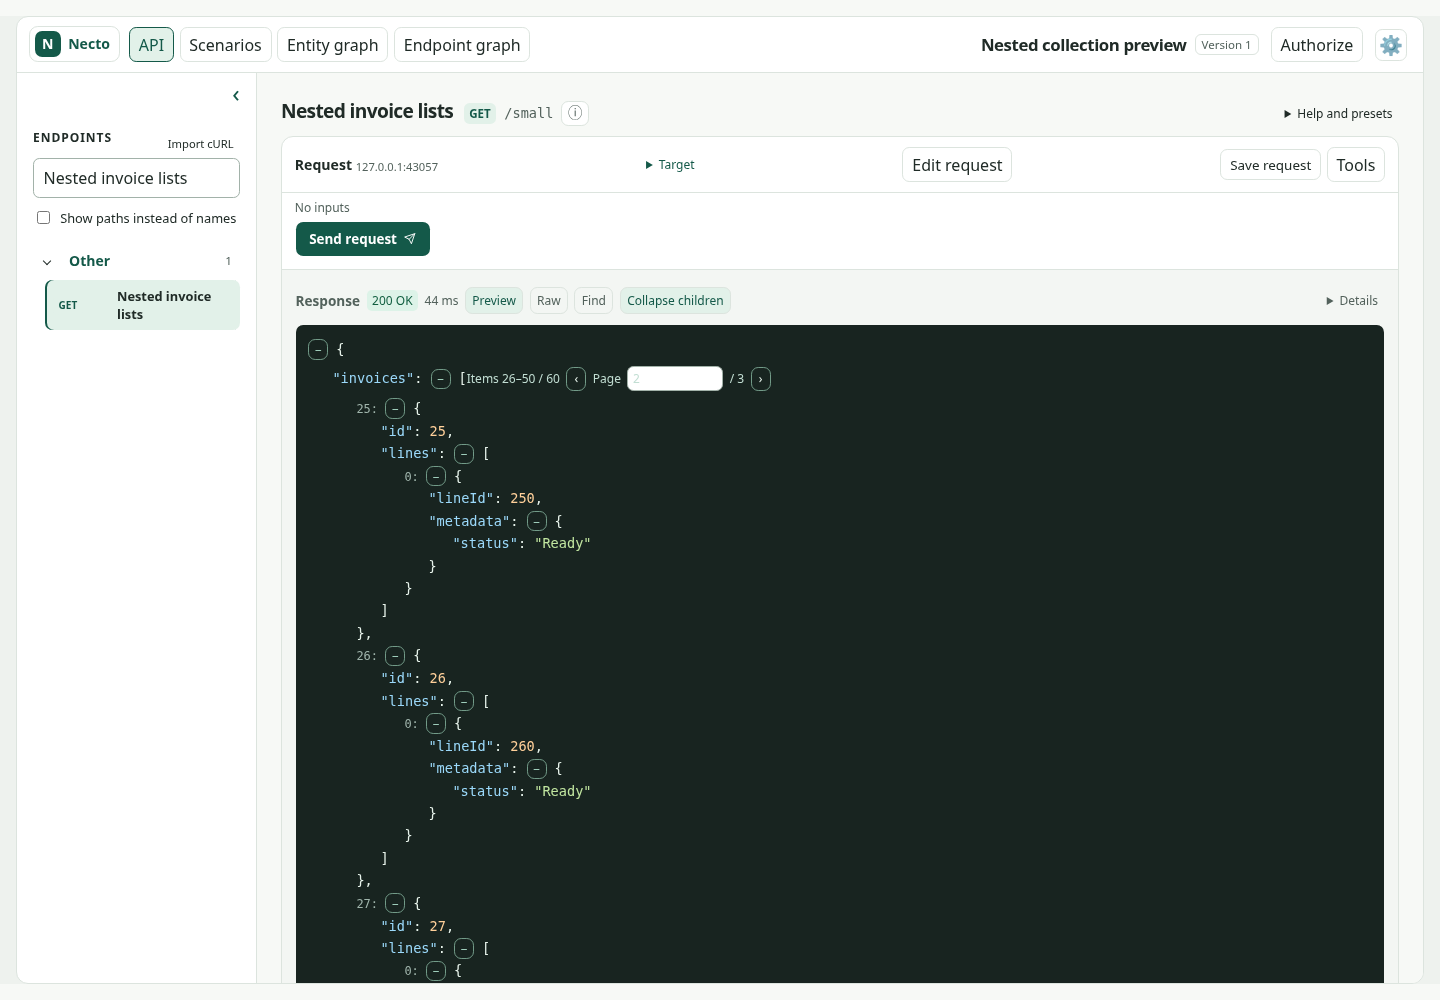
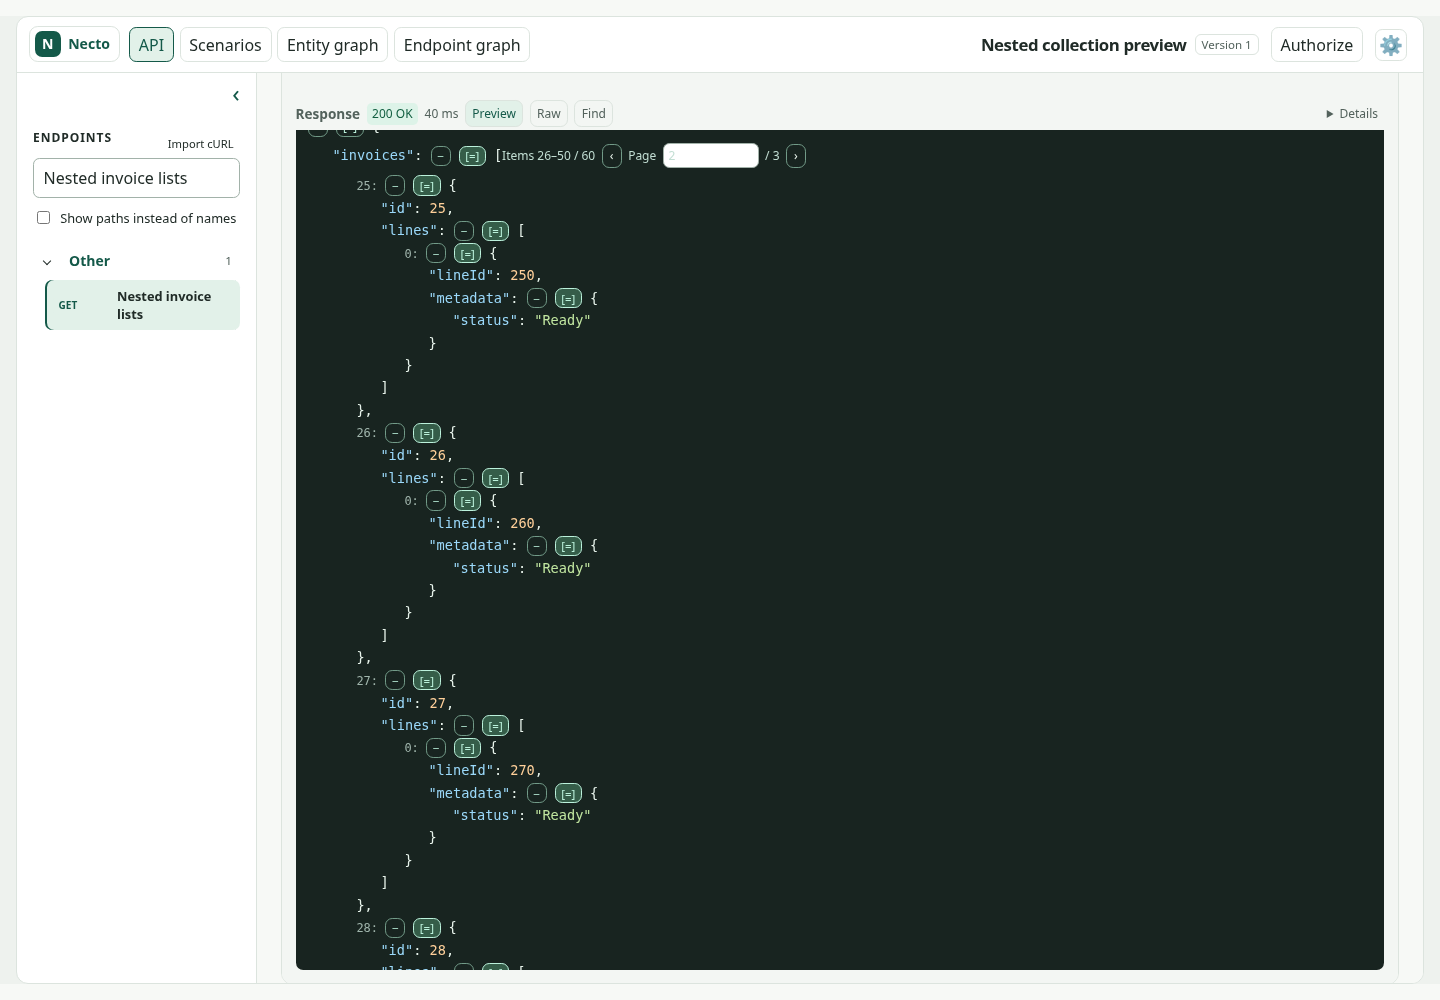
feat: expand response children with local branch controls

diff --git a/Necto.UI/src/features/request-runner/ResponsePreview.vue b/Necto.UI/src/features/request-runner/ResponsePreview.vue
@@ -55,18 +55,23 @@ const preview = ref(null)
 const schedulePreviewHeight = usePreviewHeight()
 watch([raw, table, textPage, focusPath], () => nextTick(schedulePreviewHeight))
 let navigationId = 0
-const expandChildren = ref(null), previewPages = reactive(new Map())
-watch(expandChildren,()=>nextTick(schedulePreviewHeight))
-watch(focusPath,()=>previewPages.clear())
-const expansion = computed(()=>expandChildren.value===null?null:{expanded:expandChildren.value,...(expandChildren.value?expansionPlan(previewValue.value,focusPath.value,previewPages):{paths:new Set(),limited:false})})
-const childrenAvailable = computed(()=>previewValue.value!==null&&typeof previewValue.value==='object')
+const expansionModes = reactive(new Map()), previewPages = reactive(new Map())
+let expansionRevision = 0
+const expansion = computed(()=>({commands:[...expansionModes.values()].flatMap(command=>{
+  try {return [{...command,...(command.expanded?expansionPlan(valueAtPath(props.result.json,command.path),command.path,previewPages):{paths:new Set(),limited:false})}]}catch{return []}
+})}))
+function toggleChildren({path,expanded}) {
+  for(const [key,command] of expansionModes)if(path.length<=command.path.length&&path.every((part,index)=>part===command.path[index]))expansionModes.delete(key)
+  expansionModes.set(JSON.stringify(path),{path:[...path],expanded,revision:++expansionRevision})
+  nextTick(schedulePreviewHeight)
+}
 function previewPage({path,page}){previewPages.set(JSON.stringify(path),page)}
 const previewValue = computed(() => valueAtPath(props.result.json, focusPath.value))
 const text = computed(() => props.result.stream?.view?.selectedIndex !== undefined ? JSON.stringify(props.result.json, null, 2) : props.result.rawText ?? props.result.text ?? '')
 const xmlAvailable = computed(() => text.value.length > 0 && !props.result.incomplete && !props.result.binary && !props.result.stream && props.result.json === undefined && isXmlResponse(props.result.contentType, text.value))
 const range = computed(() => pageRange(text.value.length, textPage.value, TEXT_PAGE_SIZE))
 const visibleText = computed(() => text.value.slice(range.value.start, range.value.end))
-watch(() => props.result, (result, previous) => { if (result.stream?.view && result.stream.view === previous?.stream?.view) return; expandChildren.value=null; previewPages.clear(); textPage.value = 1; raw.value = false; table.value = Boolean(props.presentation?.view === 'table' && props.presentation.viewKey === tablePreferenceKey(props.operation, [], result.json)); tableReturn.value = null; navigation.value = null; focusPath.value = []; navigationId++ }, { immediate: true })
+watch(() => props.result, (result, previous) => { if (result.stream?.view && result.stream.view === previous?.stream?.view) return; expansionModes.clear(); previewPages.clear(); textPage.value = 1; raw.value = false; table.value = Boolean(props.presentation?.view === 'table' && props.presentation.viewKey === tablePreferenceKey(props.operation, [], result.json)); tableReturn.value = null; navigation.value = null; focusPath.value = []; navigationId++ }, { immediate: true })
 
 async function reveal(match, scroll = true) {
   const id = ++navigationId
@@ -83,12 +88,12 @@ async function reveal(match, scroll = true) {
 }
 function selectPath(path) { props.result.selectedPath = path; if (props.result.stream?.view) props.result.stream.view.selectedPath = path }
 function inspectEvent(event) {
-  expandChildren.value=null;previewPages.clear()
+  expansionModes.clear();previewPages.clear()
   props.result.stream.view.selectedIndex = event.index
   props.result.json = event.data && typeof event.data === 'object' ? markRaw(event.data) : event.data
   selectPath(undefined); raw.value = false; table.value = false; focusPath.value = []; textPage.value = 1; navigation.value = null
 }
-function backToStream() { expandChildren.value=null;previewPages.clear(); props.result.stream.view.selectedIndex = undefined; props.result.json = undefined; selectPath(undefined); raw.value = false; table.value = false; focusPath.value = []; textPage.value = 1 }
+function backToStream() { expansionModes.clear();previewPages.clear(); props.result.stream.view.selectedIndex = undefined; props.result.json = undefined; selectPath(undefined); raw.value = false; table.value = false; focusPath.value = []; textPage.value = 1 }
 function showTable() {
   if (tableReturn.value) fullResponse(); else { table.value = true; raw.value = false }
   if (props.presentation) { props.presentation.view = 'table'; props.presentation.viewKey = tablePreferenceKey(props.operation, focusPath.value, previewValue.value) }
@@ -128,7 +133,6 @@ function download() {
         <button v-if="tableAvailable" type="button" :aria-pressed="table && !raw" @click="showTable">Table</button>
         <button v-if="result.json !== undefined" ref="finderButton" type="button" :aria-expanded="searchOpen" :aria-controls="searchId" title="Find in response (Ctrl or ⌘ + F while the preview is focused)" @click="toggleSearch()">Find</button>
       </template>
-      <button v-if="childrenAvailable&&!raw&&!table" type="button" :aria-pressed="expandChildren===true" title="Expand descendants on visible pages; pagination and preview limits remain active" @click="expandChildren=expandChildren!==true">{{expandChildren?'Collapse children':'Expand children'}}</button>
       <details class="response-details" @keydown.esc.stop.prevent="$event.currentTarget.open = false; $event.currentTarget.querySelector('summary').focus()">
         <summary>Details</summary>
         <div class="response-details-content">
@@ -150,8 +154,7 @@ function download() {
     <div v-if="focusPath.length && !raw" class="preview-toolbar"><code>Focused object: {{ pathLabel(focusPath) }}</code><button type="button" @click="fullResponse">{{ tableReturn ? 'Back to table' : 'Back to full response' }}</button></div>
     <CollectionTable v-if="tableAvailable" v-show="table && !raw" :value="tableValue" :presentation="presentation" :path="tablePath" :operation="operation" :status="result.status" :content-type="result.contentType" :selectors="selectors" :selected="result.selectedPath" @select="selectPath($event)" @inspect="inspectRow" />
     <div v-if="result.json !== undefined" v-show="!raw && !table" ref="preview" class="json-preview" tabindex="0" aria-label="JSON response preview">
-      <p v-if="expansion?.expanded&&expansion.limited" class="expansion-note" role="status">Some branches remain collapsed to keep the preview responsive. Expand them individually or use Find.</p>
-      <JsonNode :expansion="expansion" @page="previewPage" :key="JSON.stringify(focusPath)" :value="previewValue" :path="focusPath" :root="true" :navigation="navigation" :selectors="selectors" :selected="result.selectedPath" @select="selectPath($event)" />
+      <JsonNode :expansion="expansion" @toggle-children="toggleChildren" @page="previewPage" :key="JSON.stringify(focusPath)" :value="previewValue" :path="focusPath" :root="true" :navigation="navigation" :selectors="selectors" :selected="result.selectedPath" @select="selectPath($event)" />
 
     </div>
     <div v-if="result.stream?.view?.selectedIndex !== undefined" class="preview-toolbar"><strong>Event {{ result.stream.view.selectedIndex + 1 }}</strong><button type="button" @click="backToStream">Back to stream</button></div>
@@ -170,7 +173,6 @@ function download() {
 </template>
 
 <style scoped>
-.expansion-note { font:.72rem/1.4 system-ui,sans-serif; color:#c2ded3; white-space:normal; max-width:40rem; margin:0 0 .6rem; }
 
 .mobile-response-context { display:none; position:relative; min-width:0; }
 .mobile-response-context summary { cursor:pointer; max-width:11rem; }

diff --git a/Necto.UI/src/features/request-runner/JsonNode.vue b/Necto.UI/src/features/request-runner/JsonNode.vue
@@ -7,7 +7,7 @@ import PreviewPager from './PreviewPager.vue'
 import XmlPreview from './XmlPreview.vue'
 import { looksLikeXml } from './xmlDetection.js'
 const props = defineProps({ value: {}, path: { type: Array, required: true }, selectors: Array, selected: Array, navigation: Object, root: Boolean, expansion: Object })
-const emit=defineEmits(['select','page'])
+const emit=defineEmits(['select','page','toggle-children'])
 const xmlOpen = ref(false)
 const xmlAvailable = computed(() => looksLikeXml(props.value))
 watch(() => props.value, () => { xmlOpen.value = false })
@@ -27,9 +27,18 @@ const scalar = computed(() => JSON.stringify(typeof props.value === 'string'
   ? props.value.slice(range.value.start, range.value.end) : props.value))
 watch(() => props.value, () => { page.value = 1; expanded.value = props.root || props.path.length < 2 })
 function changePage(value){page.value=value;emit('page',{path:props.path,page:value})}
-watch(()=>props.expansion, plan=>{
- if(plan)expanded.value=props.root||Boolean(plan.expanded&&plan.paths.has(JSON.stringify(props.path)))
+const expansionKey=computed(()=>JSON.stringify(props.path))
+const activeExpansion=computed(()=>props.expansion?.commands.findLast(command=>isPrefix(command.path,props.path)))
+const childrenExpanded=computed(()=>Boolean(activeExpansion.value?.expanded&&activeExpansion.value.paths.has(expansionKey.value)))
+const forcedExpansion=computed(()=>{
+ const command=activeExpansion.value
+ return command?{expanded:props.root||command.path.length===props.path.length||childrenExpanded.value,revision:command.revision}:null
+})
+watch(()=>forcedExpansion.value?forcedExpansion.value.revision+':'+forcedExpansion.value.expanded:null,()=>{
+ if(forcedExpansion.value)expanded.value=forcedExpansion.value.expanded
 },{immediate:true})
+function toggleChildren(){expanded.value=true;emit('toggle-children',{path:props.path,expanded:!childrenExpanded.value})}
+const expansionLimited=computed(()=>activeExpansion.value?.expanded&&activeExpansion.value.limited&&activeExpansion.value.path.length===props.path.length)
 const target = computed(() => props.navigation && props.navigation.path.length === props.path.length && isPrefix(props.path, props.navigation.path))
 const parts = computed(() => {
   if (!target.value || !props.navigation.length || props.navigation.kind === 'key') return null
@@ -49,7 +58,7 @@ watch([() => props.navigation, () => props.value], () => {
   const navigation = props.navigation
   if (!navigation) return
   if (target.value) xmlOpen.value = false
-  if (!isPrefix(props.path, navigation.path)) { expanded.value = props.expansion ? props.root || Boolean(props.expansion.expanded && props.expansion.paths.has(JSON.stringify(props.path))) : props.root || props.path.length < 2; return }
+  if (!isPrefix(props.path, navigation.path)) { expanded.value = forcedExpansion.value?.expanded ?? (props.root || props.path.length < 2); return }
   if (container.value) {
     expanded.value = true
     const child = navigation.path[props.path.length]
@@ -76,13 +85,15 @@ watch([() => props.navigation, () => props.value], () => {
       :aria-label="'Select object at ' + JSON.stringify(path)" @click="$emit('select', path)">{{ active ? 'Selected' : 'Select' }}</button>
     <button v-if="count" type="button" class="object-selector" :aria-expanded="expanded"
       :aria-label="(expanded ? 'Collapse' : 'Expand') + ' ' + JSON.stringify(path)" @click="expanded = !expanded">{{ expanded ? '−' : '+' }}</button>
+    <button v-if="expansion&&count" type="button" class="object-selector children-toggle" :aria-pressed="childrenExpanded" :aria-label="(childrenExpanded?'Collapse':'Expand')+' children at '+expansionKey" :title="(childrenExpanded?'Collapse':'Expand')+' children in this '+(array?'list':'object')+'. Visible pages only; preview limits remain active.'" @click="toggleChildren">[=]</button>
     <span>{{ array ? '[' : '{' }}</span>
     <template v-if="expanded">
+      <span v-if="expansionLimited" class="expansion-note" role="status">Some branches remain collapsed to keep the preview responsive. Expand them individually or use Find.</span>
       <PreviewPager :range="range" :label="array ? 'Items' : 'Properties'" @change="changePage" />
       <span v-for="([key, child], index) in entries" :key="key" class="json-entry">
         <span v-if="!array" class="token-key" :class="{ 'search-key': keyTarget(key) }" :data-search-key="keyTarget(key) ? 'true' : undefined">{{ JSON.stringify(key) }}<span class="punctuation">: </span></span>
         <span v-else class="item-index">{{ key }}: </span>
-        <JsonNode :value="child" :path="[...path, key]" :selectors="selectors" :selected="selected" :navigation="navigation" :expansion="expansion" @page="emit('page',$event)" @select="$emit('select', $event)" />{{ range.start + index < count - 1 ? ',' : '' }}
+        <JsonNode :value="child" :path="[...path, key]" :selectors="selectors" :selected="selected" :navigation="navigation" :expansion="expansion" @page="emit('page',$event)" @toggle-children="emit('toggle-children',$event)" @select="$emit('select', $event)" />{{ range.start + index < count - 1 ? ',' : '' }}
       </span>
     </template>
     <span v-else class="item-index"> … {{ count.toLocaleString() }} {{ array ? 'items' : 'properties' }} </span>
@@ -91,6 +102,8 @@ watch([() => props.navigation, () => props.value], () => {
 </template>
 
 <style scoped>
+.children-toggle[aria-pressed="true"] { background:#355d49; border-color:#bcf2dc; }.children-toggle:focus-visible { outline:2px solid #bcf2dc; outline-offset:2px; }.expansion-note { display:block; font:.72rem/1.4 system-ui,sans-serif; color:#c2ded3; white-space:normal; max-width:40rem; margin:.3rem 0; }
+
 mark { background: #ffe29a; color: #33280d; border-radius: .15rem; }
 .search-hit { outline: 1px solid #d4b777; border-radius: .15rem; }
 .search-key { background: #5a4922; color: #ffe29a; }

diff --git a/docs/response-preview/README.md b/docs/response-preview/README.md
@@ -1,15 +1,15 @@
 # Expand response children
 
-In **Response → Preview**, use **Expand children** to open nested objects and lists together. **Collapse children** closes the descendants while leaving the response root open.
+In **Response → Preview**, each non-empty list and object has a compact **[=]** button beside its existing +/− control. Hover for a tooltip, or use its accessible label. Click to expand children in that branch; click again to collapse the children while keeping that list/object open. Other branches stay unchanged.
 
 - Paging stays active. Only the visible page of each collection is expanded; moving to another page expands that page's children too.
-- Bulk expansion is bounded to 500 JSON values and 16 levels. If some branches remain collapsed, the preview explains this; individual expansion and Find remain available.
-- A new response restores the existing default expansion rules. Raw/Preview switching preserves the toggle for the current response.
+- Each branch expansion is bounded to 500 JSON values and 16 levels. If some branches remain collapsed, the preview explains this; individual expansion and Find remain available.
+- A new response restores the existing default expansion rules. Raw/Preview switching preserves branch choices for the current response.
 - The control is available in the normal and expanded scenario response preview. XML retains its existing controls.
 
 ![Expanded nested invoice lists](images/expanded-children.png)
 
-Validation: 293 UI/module tests, production UI build, and Chromium checks for nested lists, later pages, search reveal, mode switching, response reset, mobile layout and a payload with 250,000 nested rows. Existing XML and expanded-response browser regressions passed.
+Validation: 293 UI/module tests, production UI build, and Chromium checks for independent sibling branches, nested overrides, hover hints, later pages, search reveal, mode switching, response reset, mobile layout and a payload with 250,000 nested rows. Existing XML and expanded-response browser regressions passed.
 
 ```sh
 PLAYWRIGHT_MODULE=/path/to/playwright node Necto.UI/tests/preview-expansion.e2e.cjs
